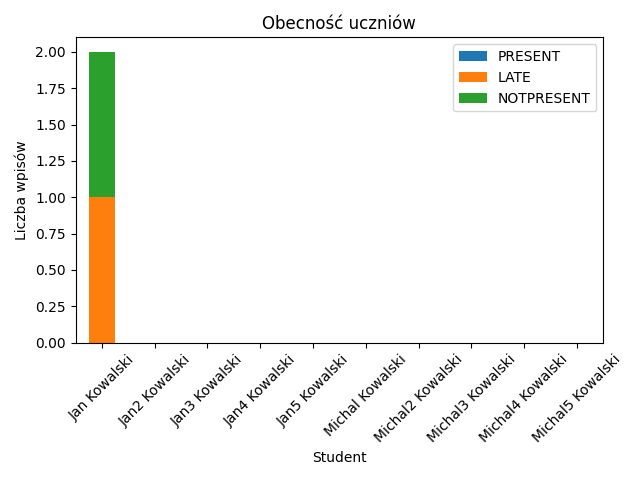
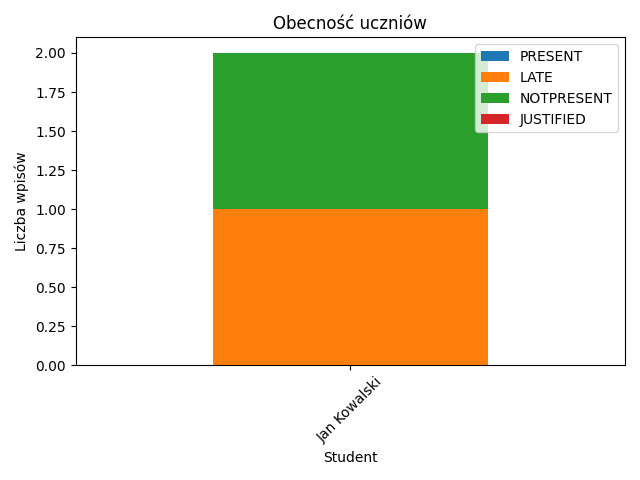
fixed labels to include all attendence types

diff --git a/Classes/Charts.py b/Classes/Charts.py
@@ -47,7 +47,7 @@ class Charts:
 
     @staticmethod
     def plot_attendance_distribution(students: list, writer):
-        attendance_types = ["PRESENT", "LATE", "NOTPRESENT"]
+        attendance_types = ["PRESENT", "LATE", "NOTPRESENT","JUSTIFIED"]
         summary = {f"{s.name} {s.lastName}": {t: 0 for t in attendance_types} for s in students}
 
         for student in students:
